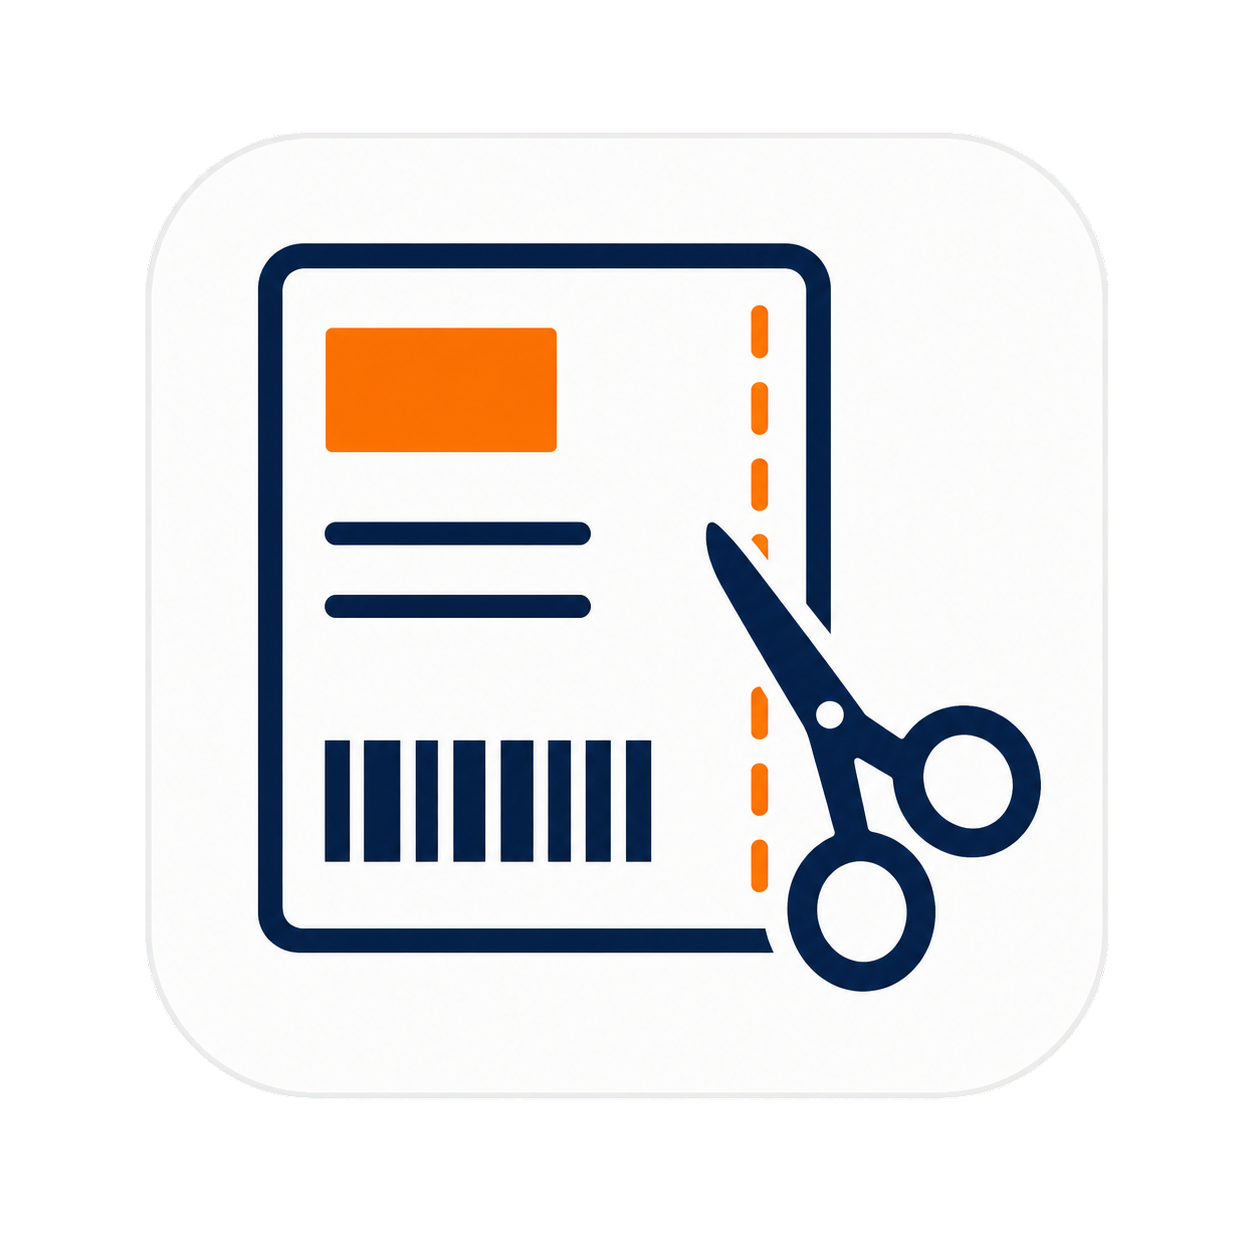
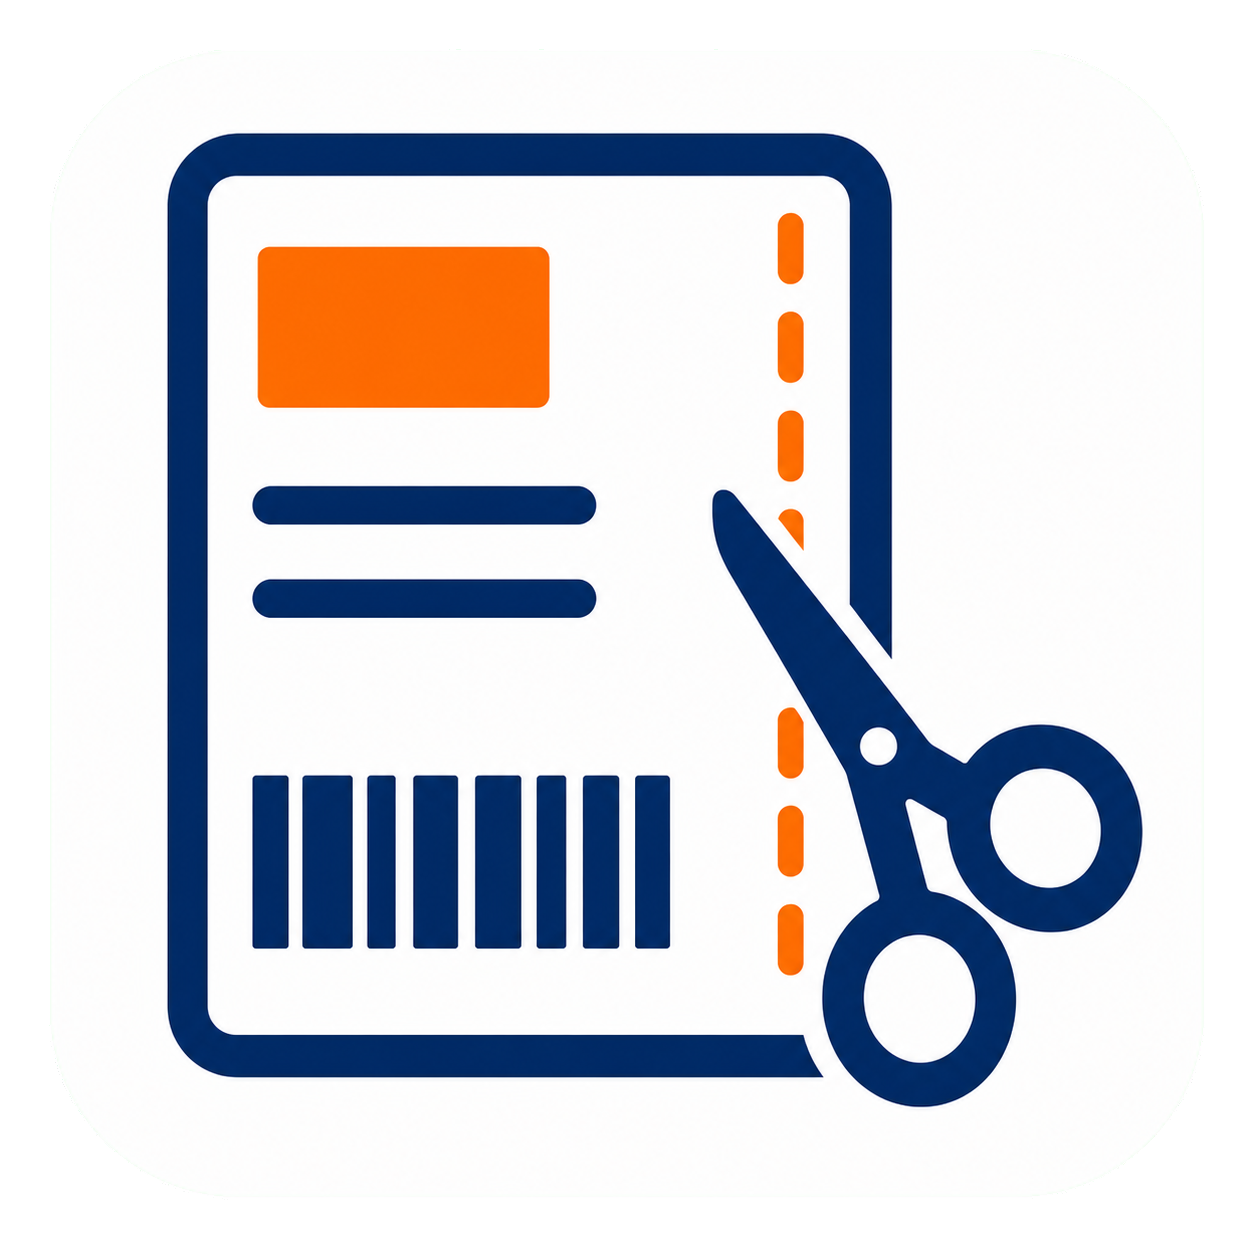
Release PostNL 10x15 virtual printer v0.3.2

Changed region(s): [[0.1244, 0.0933, 0.933, 0.9019]]

diff --git a/README.md b/README.md
@@ -44,8 +44,9 @@ Alleen het laatste commando start een Windows-printopdracht.
 De virtuele printer `PostNL 10x15` is end-to-end getest met een echt
 PostNL-label. De A4-witruimte wordt zonder kalibratie verwijderd, waarna een
 PDF van exact 150 x 100 mm naar de gekozen printer gaat. De uiteindelijke
-testversie is 0.3.1. Deze versie gebruikt een herkenbaar label-met-schaar-icoon
-in plaats van het tijdelijke grijze pictogram.
+testversie is 0.3.2. Deze versie gebruikt een herkenbaar label-met-schaar-icoon
+dat ook in de kleine Windows-appweergave duidelijk zichtbaar blijft. Het
+versienummer staat expliciet in de zichtbare appnaam.
 
 ## Zelfstandig pakket bouwen
 
@@ -60,7 +61,7 @@ worker wordt later onzichtbaar in het MSIX-printerpakket opgenomen.
 ## Virtuele printer installeren
 
 Gebruik voor een andere computer de complete map of ZIP
-`PostNL 10x15 Printer - Installatie Windows 11 v0.3.1`. Dubbelklik daarin op
+`PostNL 10x15 Printer - Installatie Windows 11 v0.3.2`. Dubbelklik daarin op
 `INSTALLEREN.cmd`, kies een bestaande doelprinter uit de lijst en kies daarna
 **Ja** bij de Windows-beheerdersvraag.
 Een printer met ongeveer 100 x 150 mm als standaard papierformaat staat
